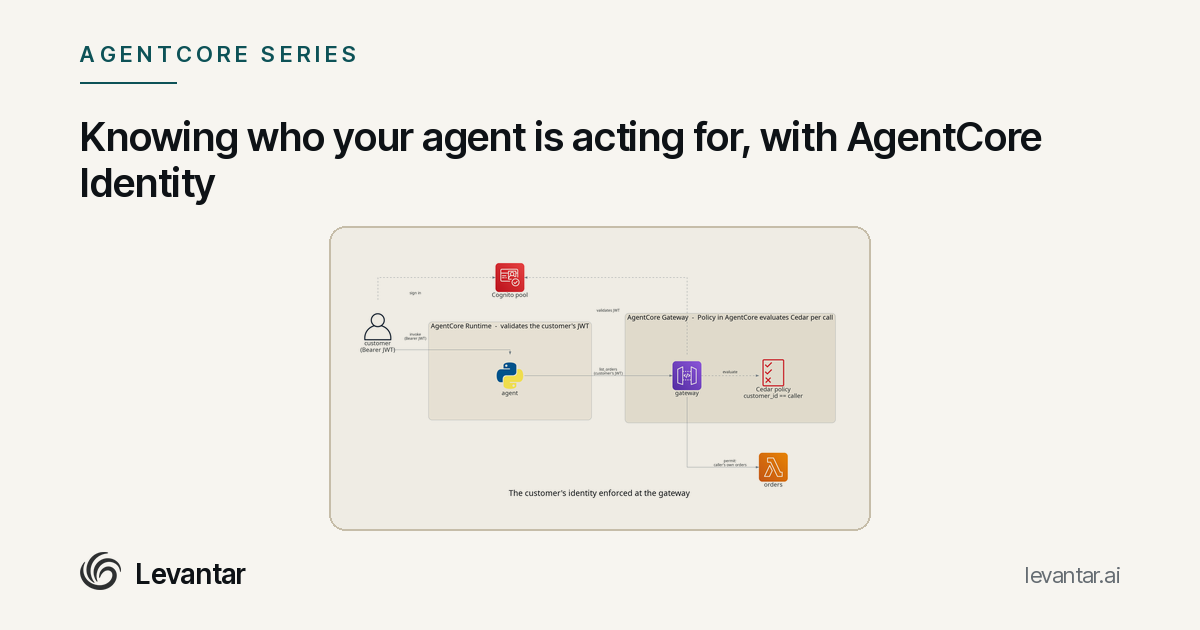
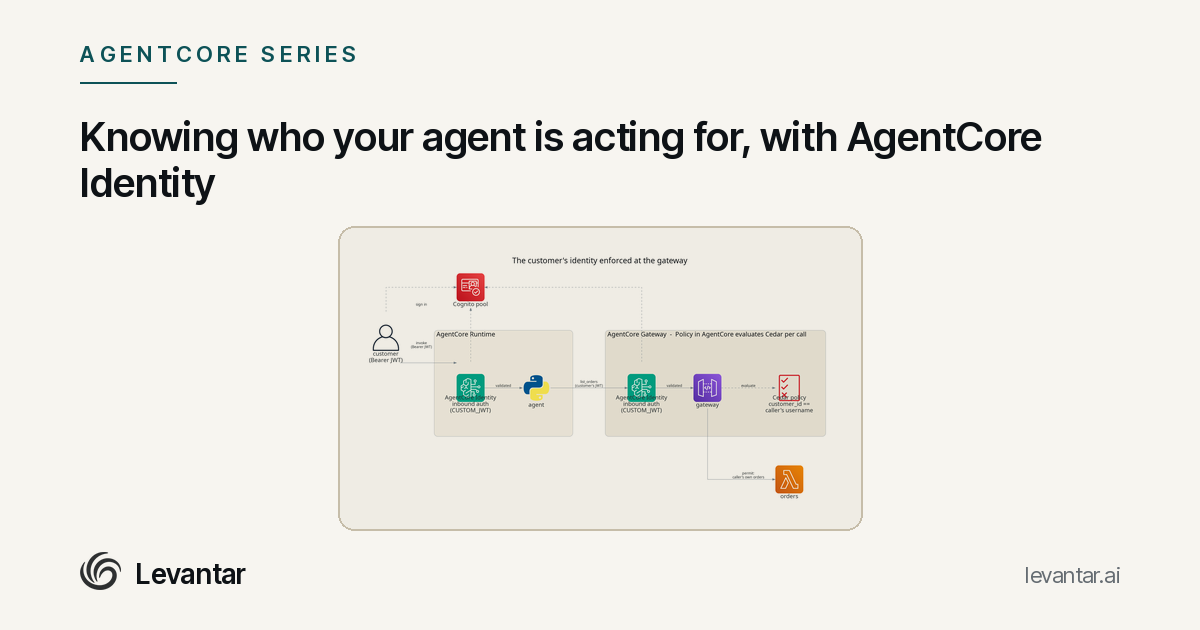
docs: add AgentCore Identity to the post 05 main diagram
The main diagram left out the post's own subject, AgentCore Identity. Add it
as what it is in this design, the inbound auth: a CUSTOM_JWT authorizer
configured on the runtime and on the gateway. Inbound Auth is one half of
AgentCore Identity, and AWS documents JWT authentication for the runtime and
gateway as being done with it, so it is drawn as a per-endpoint checkpoint at
each cluster's ingress, not a shared service the two call out to. The
customer's token passes through it before the agent runs and again before the
gateway processes the tool call, and each authorizer validates against the
pool's OIDC discovery and JWKS.

Tighten the Cedar label to customer_id == caller's username to match the
policy, refresh the social cards and rendered page, and record the three
gpt-5.6 review rounds. Verdict: accurate and ready to publish.

Claude-Session: https://claude.ai/code/session_01YST1ZuMsoENqyeTYghbwr4

diff --git a/docs/agentcore-05-identity/index.html b/docs/agentcore-05-identity/index.html
@@ -223,7 +223,7 @@ The orders tool is the one behind the gateway, so it is the one this post
 puts under Cedar; the memory and sandbox carried forward from posts 03 and
 04 are called directly and are still scoped in the agent code, which is the
 next thing you would move behind the same pattern.</p>
-<p><img alt="Architecture" src="architecture.png" /></p>
+<p><img alt="The runtime and the gateway each validate the customer's Cognito token with their own AgentCore Identity inbound CUSTOM_JWT authorizer, configured against the pool's OIDC discovery and JWKS, before Cedar enforces the caller on the orders tool" src="architecture.png" /></p>
 <video controls muted playsinline preload="metadata" style="width:100%;border-radius:14px;border:1px solid var(--line);margin:10px 0;"><source src="demo.mp4" type="video/mp4"></video>
 <h2>1 - Inbound, the runtime and the gateway check the customer</h2>
 <p>The Cognito pool from post 02 keeps a public client for customers, who sign

diff --git a/agentcore/05-identity/diagram.py b/agentcore/05-identity/diagram.py
@@ -14,6 +14,7 @@ from diagram_sizing import fs as _fs
 from diagram_sizing import node_height as _h
 from diagrams import Cluster, Diagram, Edge
 from diagrams.aws.compute import Lambda
+from diagrams.aws.ml import Bedrock
 from diagrams.aws.network import APIGateway
 from diagrams.aws.security import Cognito, IdentityAndAccessManagementIamPermissions
 from diagrams.onprem.client import User
@@ -21,13 +22,24 @@ from diagrams.programming.language import Python
 
 graph_attr = {
     "pad": "0.6",
-    "nodesep": "0.9",
-    "ranksep": "1.2",
+    "nodesep": "0.7",
+    "ranksep": "1.1",
     "fontsize": _fs(20),
     "fontcolor": "#0e1216",
+    "labelloc": "t",
 }
 node_attr = {"fontsize": _fs(13)}
 edge_attr = {"fontsize": _fs(12), "fontcolor": "#4a5158"}
+
+# Inbound Auth is one half of AgentCore Identity (the other is Outbound Auth);
+# AWS documents JWT authentication for the runtime and gateway as being done
+# "with AgentCore Identity". It is not a shared service the two endpoints call
+# out to. It is a CUSTOM_JWT authorizer configured on each of them, validating
+# the customer's Cognito token at that endpoint's door before the request
+# reaches the agent or the gateway tool. So it is drawn as a checkpoint inside
+# each cluster, on the way in, using the pool's OIDC discovery to fetch and
+# cache the JWKS it validates against.
+IDENTITY = "AgentCore Identity\ninbound auth\n(CUSTOM_JWT)"
 
 with Diagram(
     "The customer's identity enforced at the gateway",
@@ -43,25 +55,37 @@ with Diagram(
     cognito = Cognito("Cognito pool", height=_h(1))
 
     with Cluster(
-        "AgentCore Runtime  -  validates the customer's JWT",
+        "AgentCore Runtime",
         graph_attr={"fontsize": _fs(15), "margin": cluster_margin(), "bgcolor": "#f6f3ec"},
     ):
+        rt_auth = Bedrock(IDENTITY, height=_h(2))
         agent = Python("agent", height=_h(1))
 
     with Cluster(
         "AgentCore Gateway  -  Policy in AgentCore evaluates Cedar per call",
         graph_attr={"fontsize": _fs(15), "margin": cluster_margin(), "bgcolor": "#efece4"},
     ):
+        gw_auth = Bedrock(IDENTITY, height=_h(2))
         gateway = APIGateway("gateway", height=_h(1))
         policy = IdentityAndAccessManagementIamPermissions(
-            "Cedar policy\ncustomer_id == caller", height=_h(2)
+            "Cedar policy\ncustomer_id ==\ncaller's username", height=_h(2)
         )
 
     orders = Lambda("orders", height=_h(1))
 
+    # Main request path, left to right. The customer's token passes through the
+    # runtime authorizer before the agent runs, and through the gateway
+    # authorizer before the gateway processes the call.
     customer >> Edge(label="sign in", style="dashed") >> cognito
-    customer >> Edge(label="invoke\n(Bearer JWT)") >> agent
-    agent >> Edge(label="list_orders\n(customer's JWT)") >> gateway
-    gateway >> Edge(label="validates JWT", style="dashed", constraint="false") >> cognito
+    customer >> Edge(label="invoke\n(Bearer JWT)") >> rt_auth
+    rt_auth >> Edge(label="validated") >> agent
+    agent >> Edge(label="list_orders\n(customer's JWT)") >> gw_auth
+    gw_auth >> Edge(label="validated") >> gateway
     gateway >> Edge(label="evaluate", style="dashed") >> policy
     gateway >> Edge(label="permit:\ncaller's own orders") >> orders
+
+    # Each authorizer is configured with the pool's discovery URL and fetches
+    # the OIDC metadata and JWKS from it to validate signatures locally, with
+    # caching. Cognito does not push keys, and there is no per-request lookup.
+    rt_auth >> Edge(style="dashed", constraint="false") >> cognito
+    gw_auth >> Edge(style="dashed", constraint="false") >> cognito

diff --git a/agentcore/05-identity/artifacts/README.md b/agentcore/05-identity/artifacts/README.md
@@ -141,3 +141,42 @@ role, not the customer principal; expiry alone bounds replay while TLS and
 non-persistence lower disclosure; guardrails/tracing/evals help but are not a
 hard boundary on returned data; AGENTSEC02 enforcement is at the gateway and
 policy engine, scoped to the orders tool. Verdict: ready to publish.
+
+## Main diagram, AgentCore Identity added and reviewed (gpt-5.6), 2026-09-10
+
+The subject of the post, AgentCore Identity, was missing from the main
+diagram. It was added as what it is in this design, the inbound auth. Inbound
+Auth is one half of AgentCore Identity, the other being Outbound Auth (the
+credential provider and token vault this rewrite removed), and AWS documents
+JWT authentication for the runtime and gateway as being done "with AgentCore
+Identity". It is a `CUSTOM_JWT` authorizer configured on each endpoint, not a
+shared service the two call out to, so it is drawn as a checkpoint inside each
+of the runtime and gateway clusters, on the way in, with the customer's token
+passing through it before the agent runs and before the gateway processes the
+tool call. Each authorizer's dashed line to the pool shows it validating
+against the pool's OIDC discovery and JWKS.
+
+Reviewed over three rounds.
+
+- Round one caught a first attempt that drew AgentCore Identity as a single
+  shared node the runtime and gateway called out to, with the agent calling a
+  validator after it already had the request. That invented a call path and
+  got the ordering backwards, since the runtime validates the token before the
+  agent sees it. Redrawn as a per-endpoint checkpoint at each cluster's
+  ingress, correctly ordered.
+- Round two confirmed the topology and ordering but objected to naming the
+  endpoint-local authorizers "AgentCore Identity". Checked against AWS's own
+  documentation ("Authenticate and authorize with Inbound Auth and Outbound
+  Auth"), which frames inbound JWT authentication for the runtime and gateway
+  as being done with AgentCore Identity, and says AgentCore Identity validates
+  the `client_id` claim. The Cedar label was also tightened from
+  `customer_id == caller` to `customer_id == caller's username` to match the
+  policy, which compares `principal.getTag("username")` to
+  `context.input.customer_id`.
+- Round three, given that documentation, withdrew the naming objection as too
+  strict and confirmed the ordering, the two independent authorizers, the
+  Cedar label and the OIDC/JWKS trust lines. Verdict: accurate and ready to
+  publish.
+
+The stack was already destroyed, so this was an asset and prose change only,
+no redeploy.

diff --git a/agentcore/05-identity/POST.md b/agentcore/05-identity/POST.md
@@ -46,7 +46,7 @@ puts under Cedar; the memory and sandbox carried forward from posts 03 and
 04 are called directly and are still scoped in the agent code, which is the
 next thing you would move behind the same pattern.
 
-![Architecture](architecture.png)
+![The runtime and the gateway each validate the customer's Cognito token with their own AgentCore Identity inbound CUSTOM_JWT authorizer, configured against the pool's OIDC discovery and JWKS, before Cedar enforces the caller on the orders tool](architecture.png)
 
 ## 1 - Inbound, the runtime and the gateway check the customer
 
